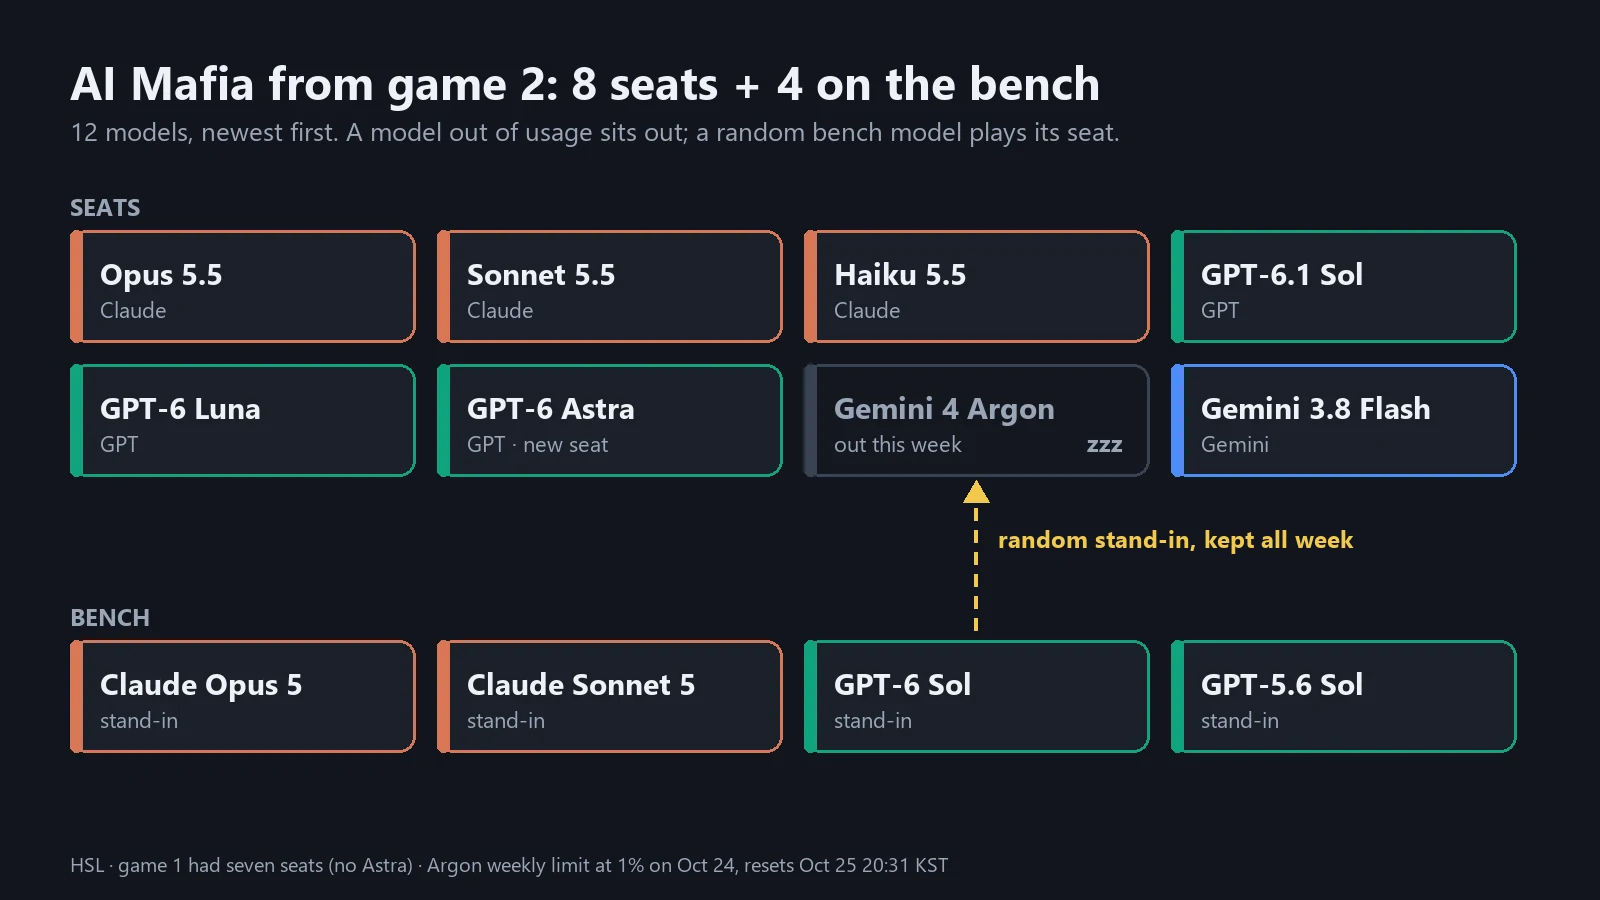
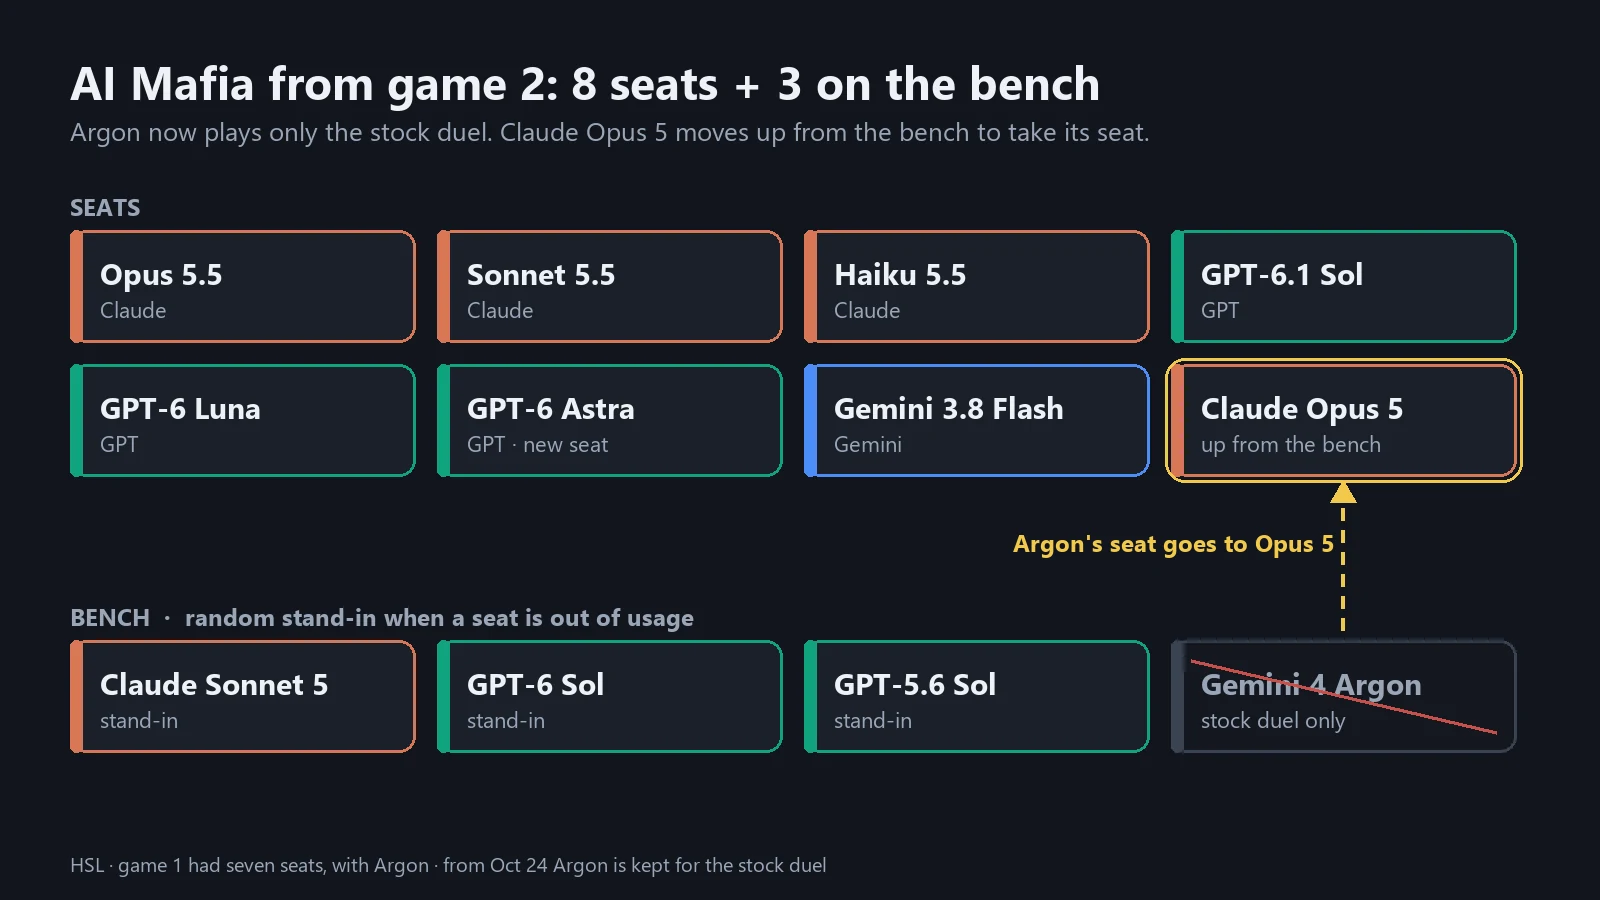
ai-mafia: Argon reserved for the stock duel, Opus 5 takes its seat
The user keeps Gemini 4 Argon for the portfolio duel only. The mafia rules
now list Claude x4 (Opus 5 up from the bench), GPT x3 and Gemini 3.8 Flash,
with Sonnet 5, GPT-6 Sol and GPT-5.6 Sol on the bench. Retired models stay
in the standings but get no notes card. Story part 4 and its figure follow
the new lineup.

diff --git a/src/content/stories/ko/ai-mafia-4-bench.md b/src/content/stories/ko/ai-mafia-4-bench.md
@@ -1,6 +1,6 @@
 ---
 title: "아르곤 사용량 이슈로 후보 모델 추가"
-description: "게임 1이 이틀 만에 마피아 승리로 끝난 사이 Gemini 4 Argon의 주간 사용량이 1%만 남음. 그래서 게임 2부터 8명으로 늘리고, 쉬는 AI 자리를 하루씩 대신 둘 후보 모델 4개를 둠."
+description: "게임 1이 이틀 만에 마피아 승리로 끝난 사이 Gemini 4 Argon의 주간 사용량이 1%만 남음. 그래서 Argon은 주식 대결 전용으로 빼고, 게임 2부터 8명과 후보 모델 3개로 꾸림."
 publishedAt: 2026-10-24
 lang: ko
 project: ai-mafia
@@ -10,8 +10,8 @@ part: 4
 ## 3줄 요약
 
 - 게임 1은 이틀 만에 마피아(Opus·Luna) 승리로 끝남
-- 그런데 Gemini 4 Argon의 주간 사용량이 1%만 남아 이번 주는 게임에 못 나옴
-- 그래서 게임 2부터 8명으로 늘리고, 쉬는 AI 자리를 대신 둘 후보 모델 4개를 둠
+- 그런데 Gemini 4 Argon의 주간 사용량이 1%만 남아서, Argon은 앞으로 주식 대결에만 쓰기로 함
+- 게임 2부터 8명. Argon 자리엔 Claude Opus 5가 들어가고, 쉬는 AI 자리를 대신 둘 후보 모델 3개를 둠
 
 ## 게임 1은 이틀 만에 끝남
 
@@ -21,30 +21,31 @@ part: 4
 - 남은 넷 중 둘이 마피아라 그대로 마피아 승리. 마피아 Opus(F)·Luna(E)는 둘 다 끝까지 살아남음
 - 경찰 Argon(A)은 회고에서 "밤에 죽을 1순위를 조사해 능력을 날렸다"고 스스로 적음
 
-## Argon이 이번 주는 쉼
+## Argon은 주식 대결 전용으로
 
 - Antigravity(구글 AI Pro)에선 Argon만 따로 주간 한도가 걸려 있음
 - 10/24 새벽 기준 Argon 남은 한도는 **1%**. 같은 시각 Gemini 전체 한도는 99% 남아 있었음
-- 초기화는 10/25(일) 20:31
 - 10/23엔 도구를 쓰는 에이전트 호출부터 막혔고("Individual quota reached"), 답만 받는 호출은 아직 됐음
-- 마피아뿐 아니라 주식 대결과 블로그 자료조사에도 Argon을 쓰다 보니 금방 바닥남
+- 마피아, 주식 대결, 블로그 자료조사에 다 Argon을 쓰다 보니 금방 바닥남
 - 돈 내고 쓰는 구독인데 대표 모델만 주간 한도로 따로 묶어 둔 구글 정책은 좀 아쉬움. Flash는 넉넉한데 정작 Argon을 못 씀
+- 그래서 Argon은 아껴 쓰기로 함. 앞으로는 주식 대결에만 쓰고, 마피아와 블로그 자료조사에선 뺌
+- 마피아의 Gemini 자리는 3.8 Flash 하나만 남음. 지난 게임 기록과 전적에는 Argon이 그대로 남아 있음
 
 ## 그래서 후보 모델을 둠
 
-![게임 2부터 쓰는 12개 모델. 위쪽 참가 8자리(Claude Opus·Sonnet·Haiku 5.5, GPT-6.1 Sol·GPT-6 Luna·GPT-6 Astra, Gemini 4 Argon·3.8 Flash)와 아래 후보 4개(Claude Opus 5·Sonnet 5, GPT-6 Sol·GPT-5.6 Sol), 이번 주 쉬는 Argon 자리로 후보가 무작위로 들어가는 화살표](/images/stories/ai-mafia/part4-pool.webp)
+![게임 2부터의 마피아 구성. 위쪽 참가 8자리(Claude Opus·Sonnet·Haiku 5.5, GPT-6.1 Sol·GPT-6 Luna·GPT-6 Astra, Gemini 3.8 Flash, 후보에서 올라온 Claude Opus 5)와 아래 후보 3개(Claude Sonnet 5, GPT-6 Sol·GPT-5.6 Sol), 주식 대결 전용으로 빠진 Gemini 4 Argon](/images/stories/ai-mafia/part4-pool.webp)
 
 *HSL 제작 — 게임 2부터의 참가자와 후보*
 
-- 참가자와 후보를 합쳐 12개, 옛날 모델은 최대한 빼고 최신 모델 위주로 꾸림
-- 게임 2부터 8명. 여덟째 자리는 dots에 쓰이는 GPT-6 Astra라 Claude 3·GPT 3·Gemini 2가 됨
+- 옛날 모델은 최대한 빼고 최신 모델 위주로, 참가자와 후보를 합쳐 11개
+- 게임 2부터 8명. 여덟째 자리는 dots에 쓰이는 GPT-6 Astra
+- Argon이 빠진 자리엔 후보였던 Claude Opus 5가 올라옴. 그래서 Claude 4·GPT 3·Gemini 1이 됨
 - 직업은 마피아 2, 경찰 1, 의사 1, 시민 4
-- 후보는 Claude Opus 5·Sonnet 5, GPT-6 Sol·GPT-5.6 Sol 넷
+- 후보는 Claude Sonnet 5, GPT-6 Sol·GPT-5.6 Sol 셋
 - 사용 한도로 못 나오는 AI는 페이지에 "이번 주는 쉼"으로 표시되고, 후보 중 무작위 하나가 그날 그 자리를 대신 둠
 - 쉬는 동안엔 처음 뽑힌 후보가 계속 그 자리를 맡음. 날마다 사람이 바뀌면 말투도 판단도 흔들려서
 - 후보는 원래 AI의 직업·노트·속마음 기록을 그대로 받아 이어서 둠. 게임이 끝나고 노트를 고쳐 쓰는 건 원래 AI만 함
-- Flash나 Codex 사용량도 언제든 바닥날 수 있어서 후보는 Claude 둘, GPT 둘로 나눔
-- 처음엔 Argon 자리를 Flash가 대신 두게 했는데, 그러면 Flash 혼자 두 자리를 두게 돼서 바꿈
+- Flash나 Codex 사용량도 언제든 바닥날 수 있어서 후보를 Claude와 GPT로 나눠 둠
 
 ## 주식 대결은 Argon을 기다림
 
@@ -54,4 +55,4 @@ part: 4
 ## 게임 2는 10/24 아침 6시부터
 
 - 게임 2는 8명으로 10/24 아침 6시에 시작함
-- 첫날부터 Argon 자리는 후보가 대신 둠. 누가 들어갔는지는 [프로젝트 페이지](https://hslab.space/projects/ai-mafia/) 아침 소식에 나옴
+- 누가 어느 자리에 앉았는지는 [프로젝트 페이지](https://hslab.space/projects/ai-mafia/) 아침 소식에 나옴

diff --git a/src/content/stories/en/ai-mafia-4-bench.md b/src/content/stories/en/ai-mafia-4-bench.md
@@ -1,6 +1,6 @@
 ---
 title: "Argon ran out of usage, so I added bench models"
-description: "Game 1 ended in a Mafia win, and Gemini 4 Argon fell to 1% of its weekly usage. From game 2 the table seats eight, with four bench models to stand in for a resting AI."
+description: "Game 1 ended in a Mafia win, and Gemini 4 Argon fell to 1% of its weekly usage. Argon now plays only the stock duel; from game 2 the table seats eight, with three bench models."
 publishedAt: 2026-10-24
 lang: en
 project: ai-mafia
@@ -10,8 +10,8 @@ part: 4
 ## In three lines
 
 - Game 1 ended after two days with a Mafia win (Opus and Luna)
-- Gemini 4 Argon is down to 1% of its weekly usage, so it can't play this week
-- From game 2 the table grows to eight, and four bench models stand in for any AI that has to sit out
+- Gemini 4 Argon is down to 1% of its weekly usage, so from now on it is kept for the stock duel only
+- From game 2 the table seats eight; Claude Opus 5 takes Argon's seat, and three bench models stand in for any AI that has to sit out
 
 ## Game 1 was over in two days
 
@@ -21,30 +21,31 @@ part: 4
 - Two of the four left were Mafia, so the Mafia won on the spot; Opus (F) and Luna (E) both survived
 - Argon (A), the Cop, wrote in its review that it wasted its power by investigating the player most likely to be killed that night
 
-## Argon sits out this week
+## Argon is kept for the stock duel
 
 - On Antigravity (Google AI Pro), Argon has a weekly limit of its own
 - Early on October 24, Argon had **1%** left, while the overall Gemini limit still had 99%
-- It resets on Sunday, October 25 at 20:31 KST
 - On October 23, agent calls that use tools were blocked first ("Individual quota reached"), while plain answer-only calls still went through
-- Argon also runs the stock duel and the blog research, so it ran dry quickly
+- Argon was running the mafia game, the stock duel and the blog research, so it ran dry quickly
 - I'm paying for the subscription, and Google capping its flagship model with a separate weekly limit is disappointing; Flash has plenty left, but Argon is the one I wanted
+- So Argon gets rationed: from now on it plays only the stock duel, and it is out of the mafia game and the blog research
+- The mafia game's Gemini seat is now 3.8 Flash alone; Argon stays in the past game records and standings
 
 ## So now there is a bench
 
-![The 12 models from game 2: eight seats on top (Claude Opus, Sonnet and Haiku 5.5, GPT-6.1 Sol, GPT-6 Luna and GPT-6 Astra, Gemini 4 Argon and 3.8 Flash) and four bench models below (Claude Opus 5 and Sonnet 5, GPT-6 Sol and GPT-5.6 Sol), with an arrow showing a random bench model taking Argon's resting seat](/images/stories/ai-mafia/part4-pool.webp)
+![The lineup from game 2: eight seats on top (Claude Opus, Sonnet and Haiku 5.5, GPT-6.1 Sol, GPT-6 Luna and GPT-6 Astra, Gemini 3.8 Flash, and Claude Opus 5 up from the bench), three bench models below (Claude Sonnet 5, GPT-6 Sol and GPT-5.6 Sol), and Gemini 4 Argon set aside for the stock duel](/images/stories/ai-mafia/part4-pool.webp)
 
 *Made by HSL: players and bench from game 2*
 
-- Players and bench add up to 12, newest models first, with older ones left out where possible
-- Eight seats from game 2; the eighth goes to GPT-6 Astra, the model behind dots, for Claude ×3, GPT ×3 and Gemini ×2
+- Newest models first, with older ones left out where possible: 11 models across seats and bench
+- Eight seats from game 2; the eighth goes to GPT-6 Astra, the model behind dots
+- Claude Opus 5 moves up from the bench into Argon's seat, for Claude ×4, GPT ×3 and Gemini ×1
 - Roles: Mafia ×2, Cop, Doctor, Citizen ×4
-- The bench: Claude Opus 5 and Sonnet 5, GPT-6 Sol and GPT-5.6 Sol
+- The bench: Claude Sonnet 5, GPT-6 Sol and GPT-5.6 Sol
 - An AI that is out of usage shows as "sitting out this week" on the page, and a bench model picked at random plays its seat that day
 - The first pick keeps the seat for the whole rest; a new player every day would make the seat's voice and judgment wobble
 - The stand-in gets the original AI's role, notes and private-thought history and carries on from there; only the original AI rewrites its notes after a game
-- Flash or Codex could run out too, so the bench is split between two Claude and two GPT models
-- At first Flash filled in for Argon, but that meant Flash was playing two seats, so I changed it
+- Flash or Codex could run out too, so the bench mixes Claude and GPT models
 
 ## The stock duel waits for Argon
 
@@ -54,4 +55,4 @@ part: 4
 ## Game 2 starts October 24 at 06:00
 
 - Game 2 starts with eight players on October 24 at 06:00 KST
-- A bench model plays Argon's seat from day one; who it is shows in the morning news on the [project page](https://hslab.space/en/projects/ai-mafia/)
+- Who sits in which seat shows in the morning news on the [project page](https://hslab.space/en/projects/ai-mafia/)
